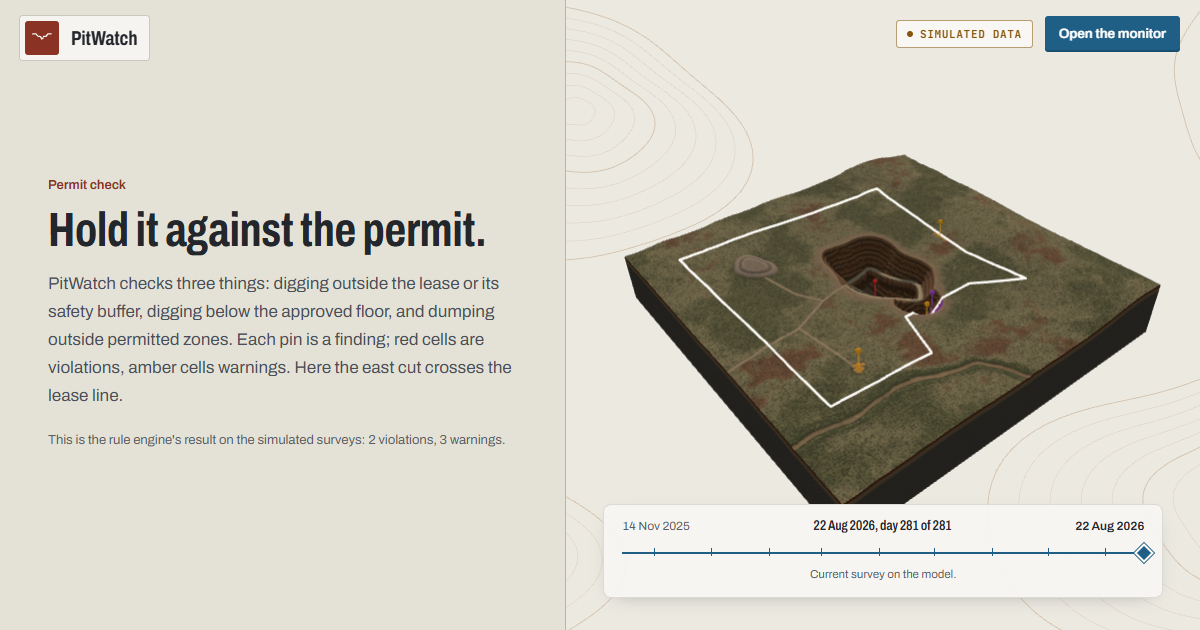
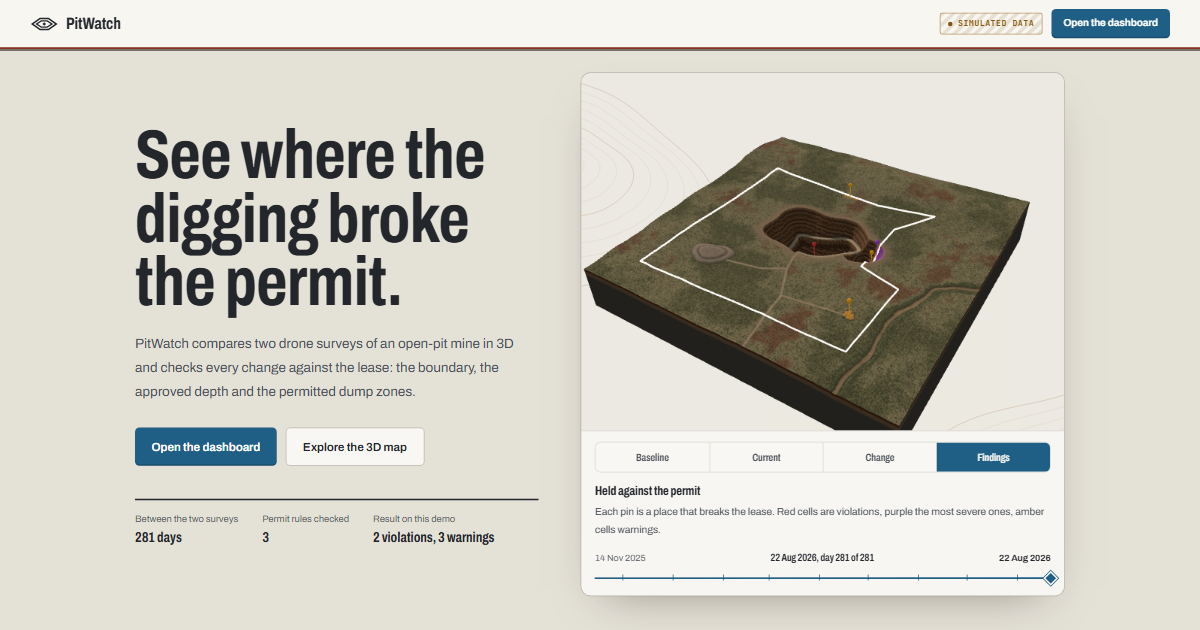
fix: one-row hero facts and a link-preview image from the new landing page

diff --git a/src/index.css b/src/index.css
@@ -1345,7 +1345,7 @@ body {
   }
   @media (width >= 64rem) {
     .hero {
-      grid-template-columns: minmax(0, 0.85fr) minmax(0, 1.25fr);
+      grid-template-columns: minmax(0, 1fr) minmax(0, 1.2fr);
       gap: 56px;
       align-items: center;
       min-height: calc(100vh - 69px);
@@ -1360,9 +1360,9 @@ body {
     color: var(--color-ink);
   }
   .hero-facts {
-    display: grid;
-    grid-template-columns: repeat(auto-fit, minmax(150px, 1fr));
-    gap: 14px 28px;
+    display: flex;
+    flex-wrap: wrap;
+    gap: 14px 32px;
     max-width: 36rem;
     margin-top: 44px;
     padding-top: 16px;
